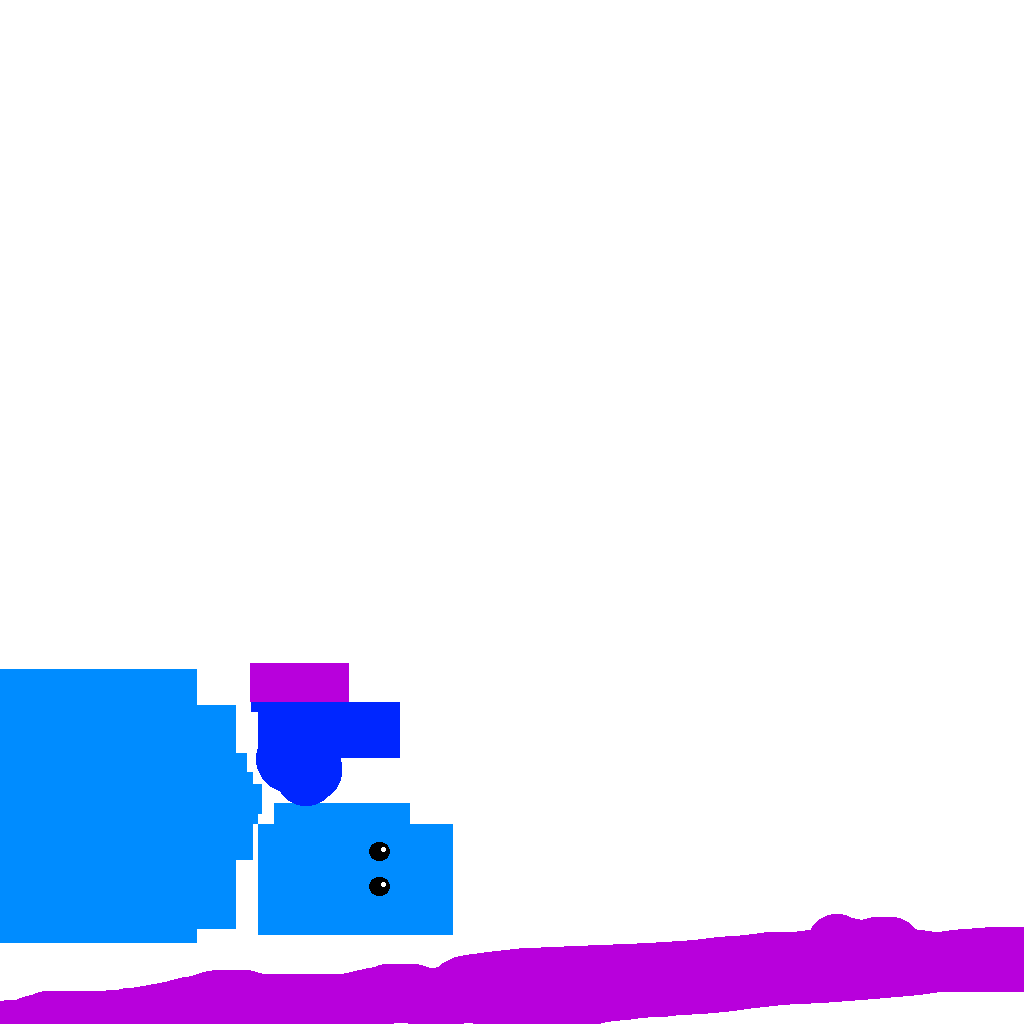
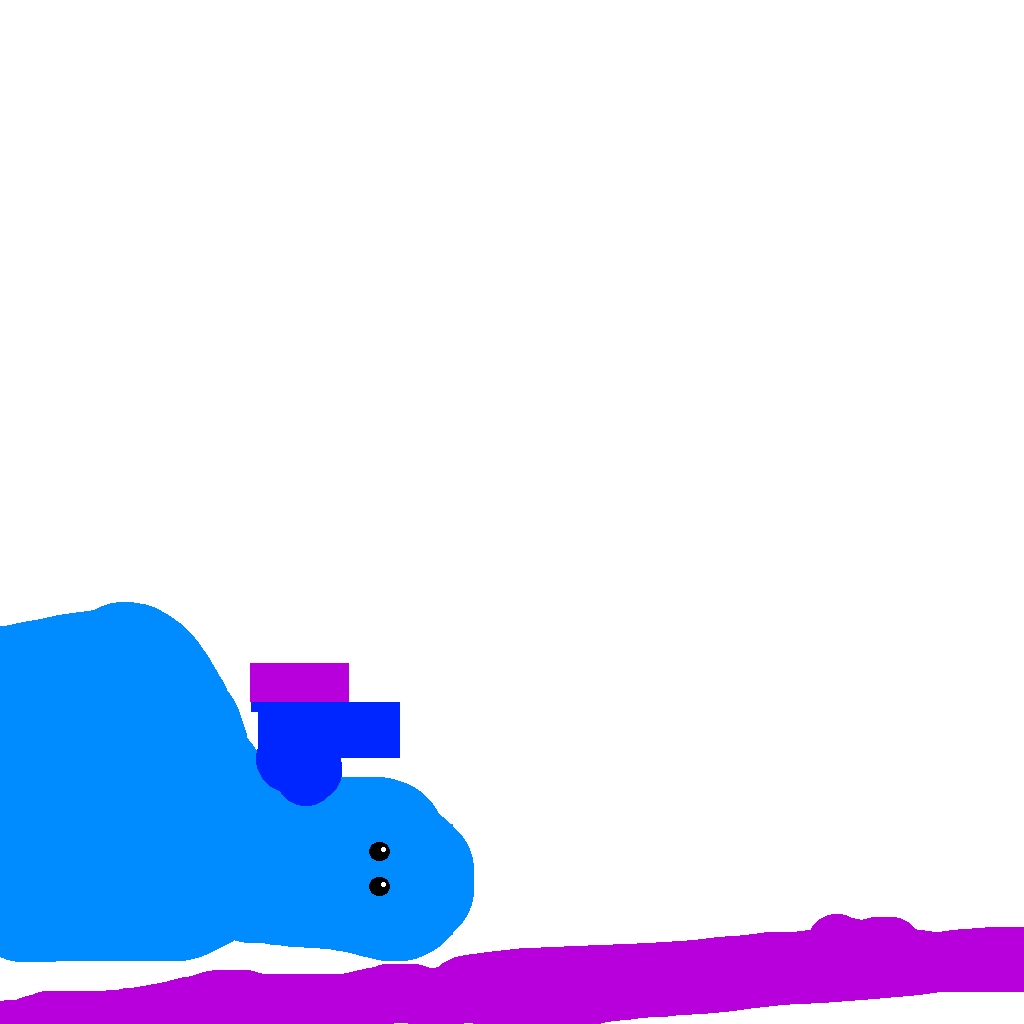
light map

diff --git a/AwesomeGameClient/src/main/kotlin/ch/awesome/game/client/rendering/GameRenderer.kt b/AwesomeGameClient/src/main/kotlin/ch/awesome/game/client/rendering/GameRenderer.kt
@@ -46,20 +46,22 @@ class GameRenderer (canvas: HTMLCanvasElement,
         gl.disable(WebGLRenderingContext.CULL_FACE) // TODO: change to enable when particles are fixed
         gl.cullFace(WebGLRenderingContext.BACK)
 
-
         viewMatrix.identity()
         projectionMatrix.projectionMatrix(70.0f, canvas.width, canvas.height, 0.1f, 1000.0f)
 
         // Init model shader
-        modelShader.start()
         modelShader.findAllUniformLocations()
+        modelShader.start()
         modelShader.uniformProjectionMatrix.load(gl, projectionMatrix)
+        modelShader.uniformModelTexture.load(gl, 0)
+        modelShader.uniformLightMap.load(gl, 1)
         modelShader.stop()
 
         // Init particle shader
         particleShader.start()
         particleShader.findAllUniformLocations()
         particleShader.uniformProjectionMatrix.load(gl, projectionMatrix)
+        particleShader.uniformModelTexture.load(gl, 0)
         particleShader.stop()
     }
 
@@ -92,8 +94,8 @@ class GameRenderer (canvas: HTMLCanvasElement,
         viewMatrix.viewMatrix(camera.position.x, camera.position.y, camera.position.z, camera.pitch, camera.yaw, camera.roll)
         particleShader.uniformViewMatrix.load(gl, viewMatrix)
 
-        gl.bindTexture(WebGLRenderingContext.TEXTURE_2D, model.texture.texture)
         gl.activeTexture(WebGLRenderingContext.TEXTURE0)
+        gl.bindTexture(WebGLRenderingContext.TEXTURE_2D, model.texture.modelTexture)
         gl.drawElements(WebGLRenderingContext.TRIANGLES, model.rawModel.vertexCount, WebGLRenderingContext.UNSIGNED_SHORT, 0)
 
         gl.disableVertexAttribArray(0)
@@ -130,10 +132,21 @@ class GameRenderer (canvas: HTMLCanvasElement,
 
         modelShader.uniformReflectivity.load(gl, model.texture.reflectivity)
         modelShader.uniformShineDamper.load(gl, model.texture.shineDamper)
-        modelShader.uniformAmbientLight.load(gl, state.scene?.ambientLight ?: 0f)
 
-        gl.bindTexture(WebGLRenderingContext.TEXTURE_2D, model.texture.texture)
+        modelShader.uniformAmbientLight.load(gl, state.scene?.ambientLight ?: 0f)
+        modelShader.uniformDirectionalLightPos.load(gl, 0.0f, 1.0f, 1.0f)
+        modelShader.uniformDirectionalLightColor.load(gl, 1.0f, 0.0f, 0.0f)
+
+        modelShader.uniformUseLightMap.load(gl, model.texture.lightMap != null)
+
         gl.activeTexture(WebGLRenderingContext.TEXTURE0)
+        gl.bindTexture(WebGLRenderingContext.TEXTURE_2D, model.texture.modelTexture)
+
+        if(model.texture.lightMap != null) {
+            gl.activeTexture(WebGLRenderingContext.TEXTURE1)
+            gl.bindTexture(WebGLRenderingContext.TEXTURE_2D, model.texture.lightMap)
+        }
+
         gl.drawElements(WebGLRenderingContext.TRIANGLES, model.rawModel.vertexCount, WebGLRenderingContext.UNSIGNED_SHORT, 0)
 
         gl.disableVertexAttribArray(0)

diff --git a/AwesomeGameClient/src/main/kotlin/ch/awesome/game/client/rendering/shader/model/ModelShader.kt b/AwesomeGameClient/src/main/kotlin/ch/awesome/game/client/rendering/shader/model/ModelShader.kt
@@ -1,22 +1,25 @@
 package ch.awesome.game.client.rendering.shader.model
 
 import ch.awesome.game.client.rendering.GameRenderer
-import ch.awesome.game.client.rendering.shader.ShaderProgram
-import ch.awesome.game.client.rendering.shader.uniforms.UniformFloat
-import ch.awesome.game.client.rendering.shader.uniforms.UniformMatrix4f
-import ch.awesome.game.client.rendering.shader.uniforms.UniformVector3fArray
+import ch.awesome.game.client.rendering.shader.*
+import ch.awesome.game.client.rendering.shader.uniforms.*
 import ch.awesome.game.client.webgl2.WebGL2RenderingContext
 
-class ModelShader(val gl: WebGL2RenderingContext) : ShaderProgram(gl, modelVertexShaderSource, modelFragmentShaderSource) {
+class ModelShader(val gl: WebGL2RenderingContext): ShaderProgram(gl, modelVertexShaderSource, modelFragmentShaderSource) {
 
-    val uniformModelMatrix = UniformMatrix4f("modelMatrix").apply { uniforms.add(this) }
-    val uniformViewMatrix = UniformMatrix4f("viewMatrix").apply { uniforms.add(this) }
-    val uniformProjectionMatrix = UniformMatrix4f("projectionMatrix").apply { uniforms.add(this) }
-    val uniformLightPos = UniformVector3fArray("lightPos", GameRenderer.maxLights).apply { uniforms.add(this) }
-    val uniformLightColor = UniformVector3fArray("lightColor", GameRenderer.maxLights).apply { uniforms.add(this) }
-    val uniformLightAttenuation =
+    val uniformModelMatrix= UniformMatrix4f("modelMatrix").apply { uniforms.add(this) }
+    val uniformViewMatrix= UniformMatrix4f("viewMatrix").apply { uniforms.add(this) }
+    val uniformProjectionMatrix= UniformMatrix4f("projectionMatrix").apply { uniforms.add(this) }
+    val uniformModelTexture = UniformInt("modelTexture").apply { uniforms.add(this) }
+    val uniformLightMap = UniformInt("lightMap").apply { uniforms.add(this) }
+    val uniformLightPos= UniformVector3fArray("lightPos", GameRenderer.maxLights).apply { uniforms.add(this) }
+    val uniformLightColor= UniformVector3fArray("lightColor", GameRenderer.maxLights).apply { uniforms.add(this) }
+    val uniformLightAttenuation=
             UniformVector3fArray("lightAttenuation", GameRenderer.maxLights).apply { uniforms.add(this) }
     val uniformAmbientLight = UniformFloat("ambientLight").apply { uniforms.add(this) }
     val uniformReflectivity = UniformFloat("reflectivity").apply { uniforms.add(this) }
     val uniformShineDamper = UniformFloat("shineDamper").apply { uniforms.add(this) }
+    val uniformDirectionalLightPos = UniformVector3f("directionalLightPos").apply { uniforms.add(this) }
+    val uniformDirectionalLightColor = UniformVector3f("directionalLightColor").apply { uniforms.add(this) }
+    val uniformUseLightMap = UniformBoolean("useLightMap").apply { uniforms.add(this) }
 }

diff --git a/AwesomeGameClient/src/main/kotlin/ch/awesome/game/client/rendering/shader/model/fragment.kt b/AwesomeGameClient/src/main/kotlin/ch/awesome/game/client/rendering/shader/model/fragment.kt
@@ -9,18 +9,23 @@ precision mediump float;
 
 in vec2 passTextureCoords;
 in vec3 worldNormal;
-in vec3 toLightVector[${GameRenderer.maxLights}];
+in vec3 vecToLight[${GameRenderer.maxLights}];
+in vec3 vecToDirLight;
 in vec3 vecToCam;
 
 out vec4 outColor;
 
 uniform sampler2D modelTexture;
+uniform sampler2D lightMap;
+
 uniform vec3 lightColor[${GameRenderer.maxLights}];
 uniform vec3 lightAttenuation[${GameRenderer.maxLights}];
 uniform float ambientLight;
+uniform vec3 directionalLightColor;
 
 uniform float reflectivity;
 uniform float shineDamper;
+uniform float useLightMap;
 
 void main()
 {
@@ -31,16 +36,16 @@ void main()
     vec3 specular = vec3(0.0);
 
     for(int i = 0; i < ${GameRenderer.maxLights}; i++) {
-        float lightDistance = length(toLightVector[i]);
+        float lightDistance = length(vecToLight[i]);
         float attenuation = lightAttenuation[i].x + (lightAttenuation[i].y * lightDistance) +
                             (lightAttenuation[i].z * lightDistance * lightDistance);
 
-        vec3 unitToLightVector = normalize(toLightVector[i]);
+        vec3 unitVecToLight = normalize(vecToLight[i]);
 
-        float diffuseDot = dot(unitNormal, unitToLightVector);
+        float diffuseDot = dot(unitNormal, unitVecToLight);
         float brightness = max(diffuseDot, 0.0);
 
-        vec3 lightDir = -unitToLightVector;
+        vec3 lightDir = -unitVecToLight;
         vec3 reflectedLightDir = reflect(lightDir, unitNormal);
         float specularBrightness = dot(reflectedLightDir, unitVecToCam);
         specularBrightness = max(specularBrightness, 0.0);
@@ -51,6 +56,23 @@ void main()
     }
 
     diffuse = max(diffuse, ambientLight);
+
+//    vec3 unitvecToDirLight = normalize(vecToDirLight);
+//    float diffuseDot = dot(unitNormal, unitvecToDirLight);
+//    float brightness = max(diffuseDot, 0.0);
+//    diffuse += brightness * directionalLightColor;
+
+//    vec3 lightDir = -vecToDirLight;
+//    vec3 reflectedLightDir = reflect(lightDir, unitNormal);
+//    float specularBrightness = dot(reflectedLightDir, unitVecToCam);
+//    specularBrightness = max(specularBrightness, 0.0);
+//    float dampedBrightness = pow(specularBrightness, shineDamper);
+//    specular += dampedBrightness * directionalLightColor;
+
+    if (useLightMap > 0.5) {
+        vec4 mapData = texture(lightMap, passTextureCoords);
+        specular *= mapData.r;
+    }
 
     outColor = vec4(diffuse, 1.0) * texture(modelTexture, passTextureCoords) + vec4(specular, 1.0);
 }

diff --git a/AwesomeGameClient/src/main/kotlin/ch/awesome/game/client/GameClient.kt b/AwesomeGameClient/src/main/kotlin/ch/awesome/game/client/GameClient.kt
@@ -3,11 +3,13 @@ package ch.awesome.game.client
 import ch.awesome.game.client.networking.NetworkClient
 import ch.awesome.game.client.rendering.Camera
 import ch.awesome.game.client.rendering.GameRenderer
+import ch.awesome.game.client.rendering.Light
 import ch.awesome.game.client.rendering.loading.OBJModelLoader
 import ch.awesome.game.client.rendering.loading.TextureImageLoader
 import ch.awesome.game.client.state.GameState
 import ch.awesome.game.client.state.PlayerControl
 import ch.awesome.game.client.state.interfaces.Renderer
+import ch.awesome.game.common.math.Vector3f
 import kotlinx.serialization.ImplicitReflectionSerializer
 import org.w3c.dom.HTMLCanvasElement
 import kotlin.browser.window
@@ -43,6 +45,10 @@ class GameClient {
                     OBJModelLoader.loadAllModels(renderer.gl),
                     TextureImageLoader.loadAllTextureImages())).then {
 
+                val sun = Light(Vector3f(10000.0f, 15000.0f, 10000.0f),
+                                Vector3f(0.5f, 0.5f, 0.5f),
+                                Vector3f(1.0f, 0.0f, 0.0f))
+
                 var lastUpdate = Date.now()
 
                 fun gameLoop(double: Double) {
@@ -50,11 +56,16 @@ class GameClient {
                     state.update(tpf.toFloat())
                     state.calculateWorldMatrix()
 
+//                        camera.lookAt(state.player?.localPosition?.x ?: 0.0f, state.player?.localPosition?.y?.plus(40.0f) ?: 40.0f,
+//                                      state.player?.localPosition?.z ?: 0.0f, 90.0f, 0.0f, 0.0f)
                     camera.lookAt(state.player?.worldTranslation?.x ?: 0.0f, 40.0f,
-                            state.player?.worldTranslation?.z?.plus(40.0f) ?: 30.0f, 40.0f, 0.0f, 0.0f)
+                            state.player?.worldTranslation?.z?.plus(60.0f) ?: 30.0f, 40.0f, 0.0f, 0.0f)
+
+                    camera.set(state.player?.worldTranslation?.x ?: 0.0f, 20.0f,
+                                  state.player?.worldTranslation?.z?.plus(30.0f) ?: 30.0f, 40.0f, 0.0f, 0.0f)
 
 
-                    renderer.prepare(*state.getLightSources())
+                    renderer.prepare(*state.getLightSources(), sun)
                     state.render(renderer)
                     renderer.end()
 

diff --git a/AwesomeGameCommon/src/main/kotlin/ch/awesome/game/common/math/Matrix4f.kt b/AwesomeGameCommon/src/main/kotlin/ch/awesome/game/common/math/Matrix4f.kt
@@ -146,9 +146,27 @@ class Matrix4f {
         return this
     }
 
-//    fun rotate(direction: Vector3f) {
-//
-//    }
+    fun rotate(direction: Vector3f): Matrix4f {
+        val xAxis = Vector3f(0.0f, 1.0f, 0.0f).cross(direction)
+        xAxis.normalize()
+
+        val yAxis = direction.cross(xAxis)
+        yAxis.normalize()
+
+        m00 = xAxis.x
+        m10 = yAxis.x
+        m20 = direction.x
+
+        m01 = xAxis.y
+        m11 = yAxis.y
+        m21 = direction.y
+
+        m02 = xAxis.z
+        m12 = yAxis.z
+        m22 = direction.z
+
+        return this
+    }
 
     fun modelMatrix(position: IVector3f, rotation: IVector3f, scale: IVector3f): Matrix4f {
         identity()
@@ -168,6 +186,15 @@ class Matrix4f {
         rotate(pitch, Vector3f(1.0f, 0.0f, 0.0f))
         rotate(yaw, Vector3f(0.0f, 1.0f, 0.0f))
         rotate(roll, Vector3f(0.0f, 0.0f, 1.0f))
+        translate(-x, -y, -z)
+
+        return this
+    }
+
+    fun viewMatrix(x: Float, y: Float, z: Float, dir: Vector3f): Matrix4f {
+        identity()
+
+        rotate(dir)
         translate(-x, -y, -z)
 
         return this

diff --git a/AwesomeGameClient/src/main/kotlin/ch/awesome/game/client/rendering/renderer/SimpleModelRenderer.kt b/AwesomeGameClient/src/main/kotlin/ch/awesome/game/client/rendering/renderer/SimpleModelRenderer.kt
@@ -14,13 +14,15 @@ class SimpleModelRenderer(private val gameNode: GameNode,
                           private val modelType: ModelType,
                           private val textureImageType: TextureImageType,
                           private val reflectivity: Float = 1f,
-                          private val shineDamper: Float = 20f) : ModelRenderer {
+                          private val shineDamper: Float = 20f,
+                          private val lightMapType: TextureImageType?= null) : ModelRenderer {
 
     override var model: TexturedModel? = null
         private set
 
     override fun initModels(gl: WebGL2RenderingContext) {
-        val texture = Texture(ModelCreator.loadTexture(gl, textureImageType), reflectivity, shineDamper)
+        val lightMap = lightMapType ?.let { ModelCreator.loadTexture(gl, lightMapType) }
+        val texture = Texture(ModelCreator.loadTexture(gl, textureImageType), reflectivity, shineDamper, lightMap)
         model = TexturedModel(OBJModelLoader.getModel(modelType), texture)
     }
 

diff --git a/AwesomeGameClient/src/main/kotlin/ch/awesome/game/client/rendering/shader/particle/ParticleShader.kt b/AwesomeGameClient/src/main/kotlin/ch/awesome/game/client/rendering/shader/particle/ParticleShader.kt
@@ -1,6 +1,7 @@
 package ch.awesome.game.client.rendering.shader.particle
 
 import ch.awesome.game.client.rendering.shader.ShaderProgram
+import ch.awesome.game.client.rendering.shader.UniformInt
 import ch.awesome.game.client.rendering.shader.uniforms.UniformMatrix4f
 import ch.awesome.game.client.rendering.shader.uniforms.UniformVector2f
 import ch.awesome.game.client.rendering.shader.uniforms.UniformVector4f
@@ -11,6 +12,7 @@ class ParticleShader(val gl: WebGL2RenderingContext): ShaderProgram(gl, particle
     val uniformModelMatrix = UniformMatrix4f("modelMatrix").apply { uniforms.add(this) }
     val uniformViewMatrix = UniformMatrix4f("viewMatrix").apply { uniforms.add(this) }
     val uniformProjectionMatrix = UniformMatrix4f("projectionMatrix").apply { uniforms.add(this) }
+    val uniformModelTexture = UniformInt("modelTexture").apply { uniforms.add(this) }
     val offsetVector = UniformVector2f("offset").apply { uniforms.add(this) }
     val uniformColor = UniformVector4f("color").apply { uniforms.add(this) }
 }

diff --git a/AwesomeGameClient/src/main/kotlin/ch/awesome/game/client/rendering/shader/model/vertex.kt b/AwesomeGameClient/src/main/kotlin/ch/awesome/game/client/rendering/shader/model/vertex.kt
@@ -13,7 +13,8 @@ in vec3 normal;
 
 out vec2 passTextureCoords;
 out vec3 worldNormal;
-out vec3 toLightVector[${GameRenderer.maxLights}];
+out vec3 vecToLight[${GameRenderer.maxLights}];
+out vec3 vecToDirLight;
 out vec3 vecToCam;
 
 uniform mat4 modelMatrix;
@@ -21,6 +22,7 @@ uniform mat4 viewMatrix;
 uniform mat4 projectionMatrix;
 
 uniform vec3 lightPos[${GameRenderer.maxLights}];
+uniform vec3 directionalLightPos;
 
 void main()
 {
@@ -31,8 +33,10 @@ void main()
     worldNormal = (modelMatrix * vec4(normal, 0.0)).xyz;
 
     for(int i = 0; i < ${GameRenderer.maxLights}; i++) {
-        toLightVector[i] = lightPos[i] - worldPosition.xyz;
+        vecToLight[i] = lightPos[i] - worldPosition.xyz;
     }
+
+    vecToDirLight = directionalLightPos - position.xyz;
 
     vecToCam = (inverse(viewMatrix) * vec4(0.0, 0.0, 0.0, 1.0)).xyz - worldPosition.xyz;
 }

diff --git a/AwesomeGameClient/src/main/kotlin/ch/awesome/game/client/rendering/shader/uniforms/UniformBoolean.kt b/AwesomeGameClient/src/main/kotlin/ch/awesome/game/client/rendering/shader/uniforms/UniformBoolean.kt
@@ -4,15 +4,15 @@ import ch.awesome.game.client.rendering.shader.ShaderProgram
 import ch.awesome.game.client.rendering.shader.ShaderUniform
 import ch.awesome.game.client.webgl2.WebGL2RenderingContext
 
-class UniformFloat(name: String): ShaderUniform(name) {
+class UniformBoolean(name: String): ShaderUniform(name) {
 
-    var value: Float? = null
+    var value: Boolean? = null
 
-    fun load(gl: WebGL2RenderingContext, value: Float) {
+    fun load(gl: WebGL2RenderingContext, value: Boolean) {
         if(this.value == value) return
 
         this.value = value
-        gl.uniform1f(location, value)
+        gl.uniform1f(location, if(value) 1.0f else 0.0f)
     }
 
     override fun findLocation(gl: WebGL2RenderingContext, shader: ShaderProgram) {

diff --git a/AwesomeGameClient/src/main/kotlin/ch/awesome/game/client/rendering/Camera.kt b/AwesomeGameClient/src/main/kotlin/ch/awesome/game/client/rendering/Camera.kt
@@ -9,12 +9,22 @@ class Camera {
     var yaw = 0.0f
     var roll = 0.0f
 
-    fun lookAt(x: Float, y: Float, z: Float, pitch: Float, yaw: Float, roll: Float) {
+    var direction = Vector3f(0.0f, 0.0f, 0.0f)
+
+    fun set(x: Float, y: Float, z: Float, pitch: Float, yaw: Float, roll: Float) {
         position.x = x
         position.y = y
         position.z = z
         this.pitch = pitch
         this.yaw = yaw
         this.roll = roll
+    }
+
+    fun lookAt(x: Float, y: Float, z: Float, targetX: Float, targetY: Float, targetZ: Float) {
+        position.x = x
+        position.y = y
+        position.z = z
+
+        direction = Vector3f(targetX, targetY, targetZ) - Vector3f(x, y, z)
     }
 }

diff --git a/AwesomeGameClient/src/main/kotlin/ch/awesome/game/client/objects/Player.kt b/AwesomeGameClient/src/main/kotlin/ch/awesome/game/client/objects/Player.kt
@@ -12,7 +12,10 @@ import ch.awesome.game.common.objects.IPlayer
 
 class Player(state: dynamic) : MovingBaseObject(state), IPlayer<IVector3f>, Renderer {
 
-    private val renderer = SimpleModelRenderer(this, ModelType.PLAYER, TextureImageType.PLAYER)
+    private val renderer = SimpleModelRenderer(gameNode = this,
+                                               modelType = ModelType.PLAYER,
+                                               textureImageType = TextureImageType.PLAYER,
+                                               lightMapType = TextureImageType.PLAYER_LIGHTMAP)
 
     override fun update(tpf: Float) {
         if (velocity.x > 0.0f) actualRotation().y = -90.0f

diff --git a/AwesomeGameClient/src/main/kotlin/ch/awesome/game/client/rendering/shader/uniforms/UniformInt.kt b/AwesomeGameClient/src/main/kotlin/ch/awesome/game/client/rendering/shader/uniforms/UniformInt.kt
@@ -1,0 +1,19 @@
+package ch.awesome.game.client.rendering.shader
+
+import ch.awesome.game.client.webgl2.WebGL2RenderingContext
+
+class UniformInt(name: String): ShaderUniform(name) {
+
+    var value: Int? = null
+
+    fun load(gl: WebGL2RenderingContext, value: Int) {
+        if(this.value == value) return
+
+        this.value = value
+        gl.uniform1i(location, value)
+    }
+
+    override fun findLocation(gl: WebGL2RenderingContext, shader: ShaderProgram) {
+        location = gl.getUniformLocation(shader.program, name)
+    }
+}
